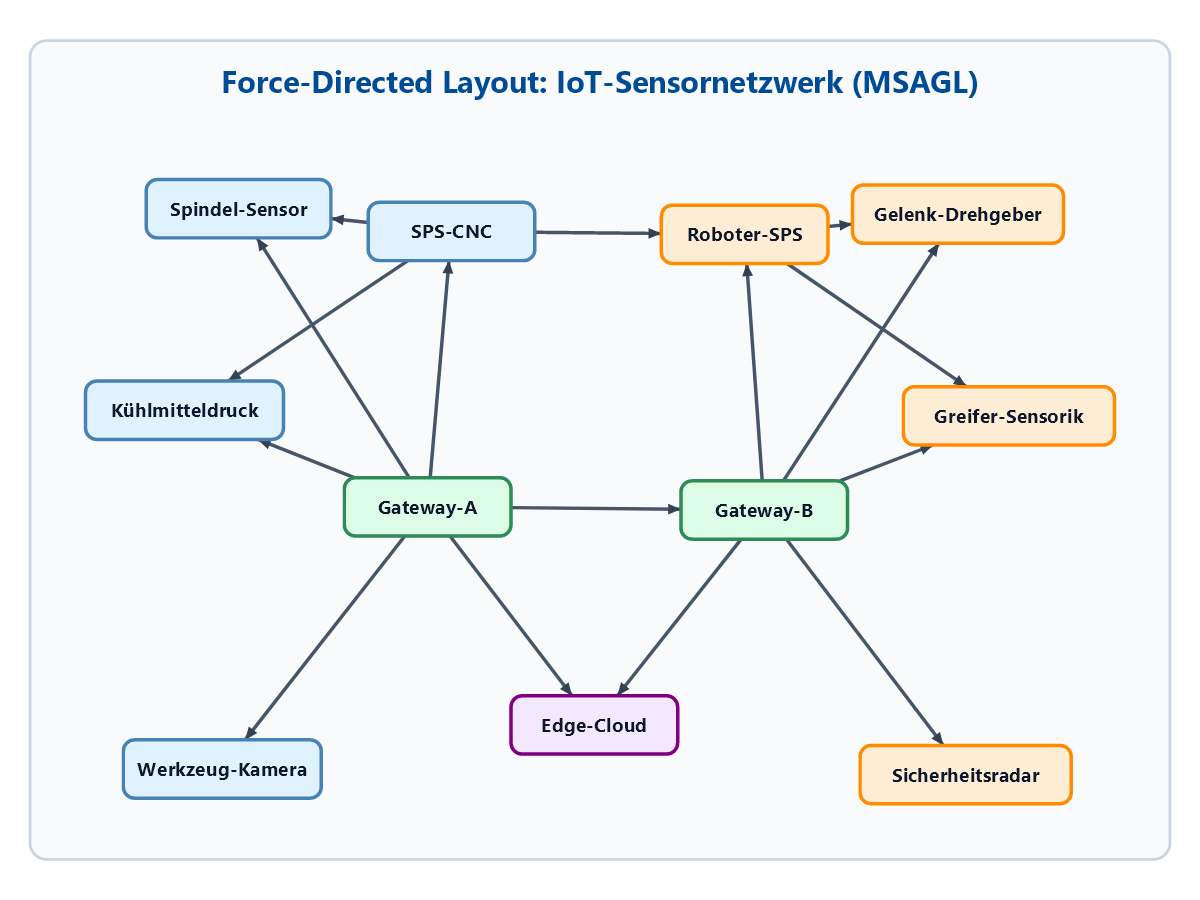
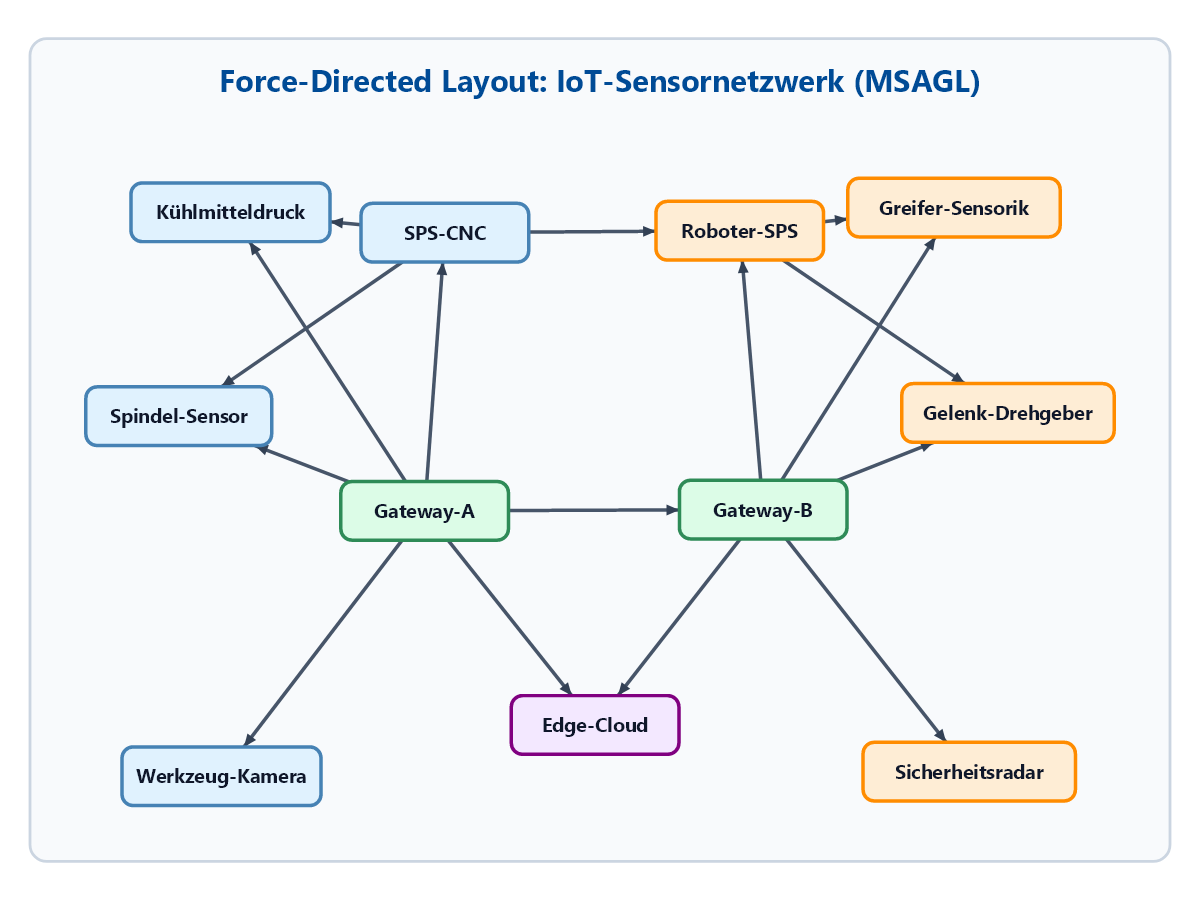
Fix: XML-Entity in Matrix-SVG maskiert und SVG-Auditor um XML-Parse-Error-Pruefung erweitert

diff --git a/Skripte/audit_svg_and_charts.js b/Skripte/audit_svg_and_charts.js
@@ -39,7 +39,9 @@ async function auditSvgFile(browser, svgPath, options = {}) {
     const issues = [];
     const svg = document.querySelector('svg');
     if (!svg) {
-      return { hasSvg: false, issues: ['No <svg> root element found'] };
+      const parserError = document.querySelector('parsererror');
+      const errText = parserError ? parserError.innerText.trim().replace(/\s+/g, ' ') : 'No <svg> root element found (XML parsing failed)';
+      return { hasSvg: false, issues: [{ type: 'XML_PARSE_ERROR', message: errText }] };
     }
 
     const svgRect = svg.getBoundingClientRect();
@@ -705,7 +707,7 @@ async function main() {
   console.log(`  Geprüfte SVGs: ${allSvgs.length} in ${durationSec}s`);
   console.log(`  SVGs mit Auffälligkeiten: ${defectCount}`);
   console.log(`================================================================\n`);
-  process.exit(0);
+  process.exit(defectCount > 0 ? 1 : 0);
 }
 
 main().catch(err => {

diff --git a/Werkzeuge/GrafikGenerator/ForceDirectedVisualizer.cs b/Werkzeuge/GrafikGenerator/ForceDirectedVisualizer.cs
@@ -166,8 +166,8 @@ namespace GrafikGenerator
                     else // 50
                     {
                         snap.Title = "Iteration 50: Kräftegleichgewicht";
-                        snap.Subtitle = "Stationärer Stillstand: Summe F_net ≈ 0";
-                        snap.Badge = "Gleichgewicht erreicht: ||F_net|| < 0.01 N (Stillstand)";
+                        snap.Subtitle = "Stationärer Stillstand: Summe F_net &#8776; 0";
+                        snap.Badge = "Gleichgewicht erreicht: ||F_net|| &lt; 0.01 N (Stillstand)";
                     }
 
                     snapshots.Add(snap);
@@ -633,9 +633,9 @@ namespace GrafikGenerator
             sb.AppendLine("<svg xmlns=\"http://www.w3.org/2000/svg\" viewBox=\"0 0 1110 470\" width=\"1110\" height=\"470\">");
             sb.AppendLine("  <defs>");
             sb.AppendLine("    <style>");
-            sb.AppendLine("      .hdr { font-family: 'Segoe UI', Arial, sans-serif; font-size: 14px; font-weight: bold; text-anchor: middle; }");
-            sb.AppendLine("      .sub { font-family: 'Segoe UI', Arial, sans-serif; font-size: 11.5px; text-anchor: middle; }");
-            sb.AppendLine("      .desc { font-family: 'Segoe UI', Arial, sans-serif; font-size: 11.5px; text-anchor: middle; }");
+            sb.AppendLine("      .hdr { font-family: 'Segoe UI', Arial, sans-serif; font-size: 15px; font-weight: bold; text-anchor: middle; }");
+            sb.AppendLine("      .sub { font-family: 'Segoe UI', Arial, sans-serif; font-size: 12.5px; text-anchor: middle; }");
+            sb.AppendLine("      .desc { font-family: 'Segoe UI', Arial, sans-serif; font-size: 12.5px; text-anchor: middle; }");
             sb.AppendLine("    </style>");
             sb.AppendLine("    <marker id=\"arr-net\" viewBox=\"0 0 10 10\" refX=\"7\" refY=\"5\" markerWidth=\"5.5\" markerHeight=\"5.5\" orient=\"auto-start-reverse\">");
             sb.AppendLine("      <path d=\"M 0 1.5 L 9 5 L 0 8.5 z\" fill=\"#16a34a\" />");

diff --git a/Export/README.md b/Export/README.md
@@ -3,7 +3,7 @@
 **Lehrveranstaltung:** Systemsimulation / Digitaler Zwilling  
 **Studiengang:** B.Sc. Automatisierungstechnik, 5. Semester  
 **Institution:** Fachhochschule Oberösterreich – Campus Wels  
-**Zuletzt generiert:** 2026-11-03 17:33:29 UTC  
+**Zuletzt generiert:** 2026-11-03 17:37:37 UTC  
 
 Dieses Verzeichnis enthält alle druckreifen, vollständigen PDF-Unterlagen für den Upload auf Moodle.
 
@@ -15,7 +15,7 @@ Dieses Verzeichnis enthält alle druckreifen, vollständigen PDF-Unterlagen für
 | **01** | Einführung | [`01_Einfuehrung_Folien.pdf`](Folien/01_Einfuehrung_Folien.pdf) | 3.8 MB | `Folien/01_Einführung/Folien.pdf` |
 | **02** | Visualisierung 2D Pixel | [`02_Visualisierung_2D_Pixel_Folien.pdf`](Folien/02_Visualisierung_2D_Pixel_Folien.pdf) | 8.56 MB | `Folien/02_Visualisierung_2D_Pixel/Folien.pdf` |
 | **03** | Visualisierung 2D Vektor | [`03_Visualisierung_2D_Vektor_Folien.pdf`](Folien/03_Visualisierung_2D_Vektor_Folien.pdf) | 4.41 MB | `Folien/03_Visualisierung_2D_Vektor/Folien.pdf` |
-| **04** | Visualisierung 2D Diagramme | [`04_Visualisierung_2D_Diagramme_Folien.pdf`](Folien/04_Visualisierung_2D_Diagramme_Folien.pdf) | 5 MB | `Folien/04_Visualisierung_2D_Diagramme/Folien.pdf` |
+| **04** | Visualisierung 2D Diagramme | [`04_Visualisierung_2D_Diagramme_Folien.pdf`](Folien/04_Visualisierung_2D_Diagramme_Folien.pdf) | 5.03 MB | `Folien/04_Visualisierung_2D_Diagramme/Folien.pdf` |
 | **05** | Visualisierung 3D OpenGL | [`05_Visualisierung_3D_OpenGL_Folien.pdf`](Folien/05_Visualisierung_3D_OpenGL_Folien.pdf) | 3.83 MB | `Folien/05_Visualisierung_3D_OpenGL/Folien.pdf` |
 | **06** | Multithreading | [`06_Multithreading_Folien.pdf`](Folien/06_Multithreading_Folien.pdf) | 1.32 MB | `Folien/06_Multithreading/Folien.pdf` |
 | **07** | Statische Modelle | [`07_Statische_Modelle_Folien.pdf`](Folien/07_Statische_Modelle_Folien.pdf) | 1.18 MB | `Folien/07_Statische_Modelle/Folien.pdf` |
